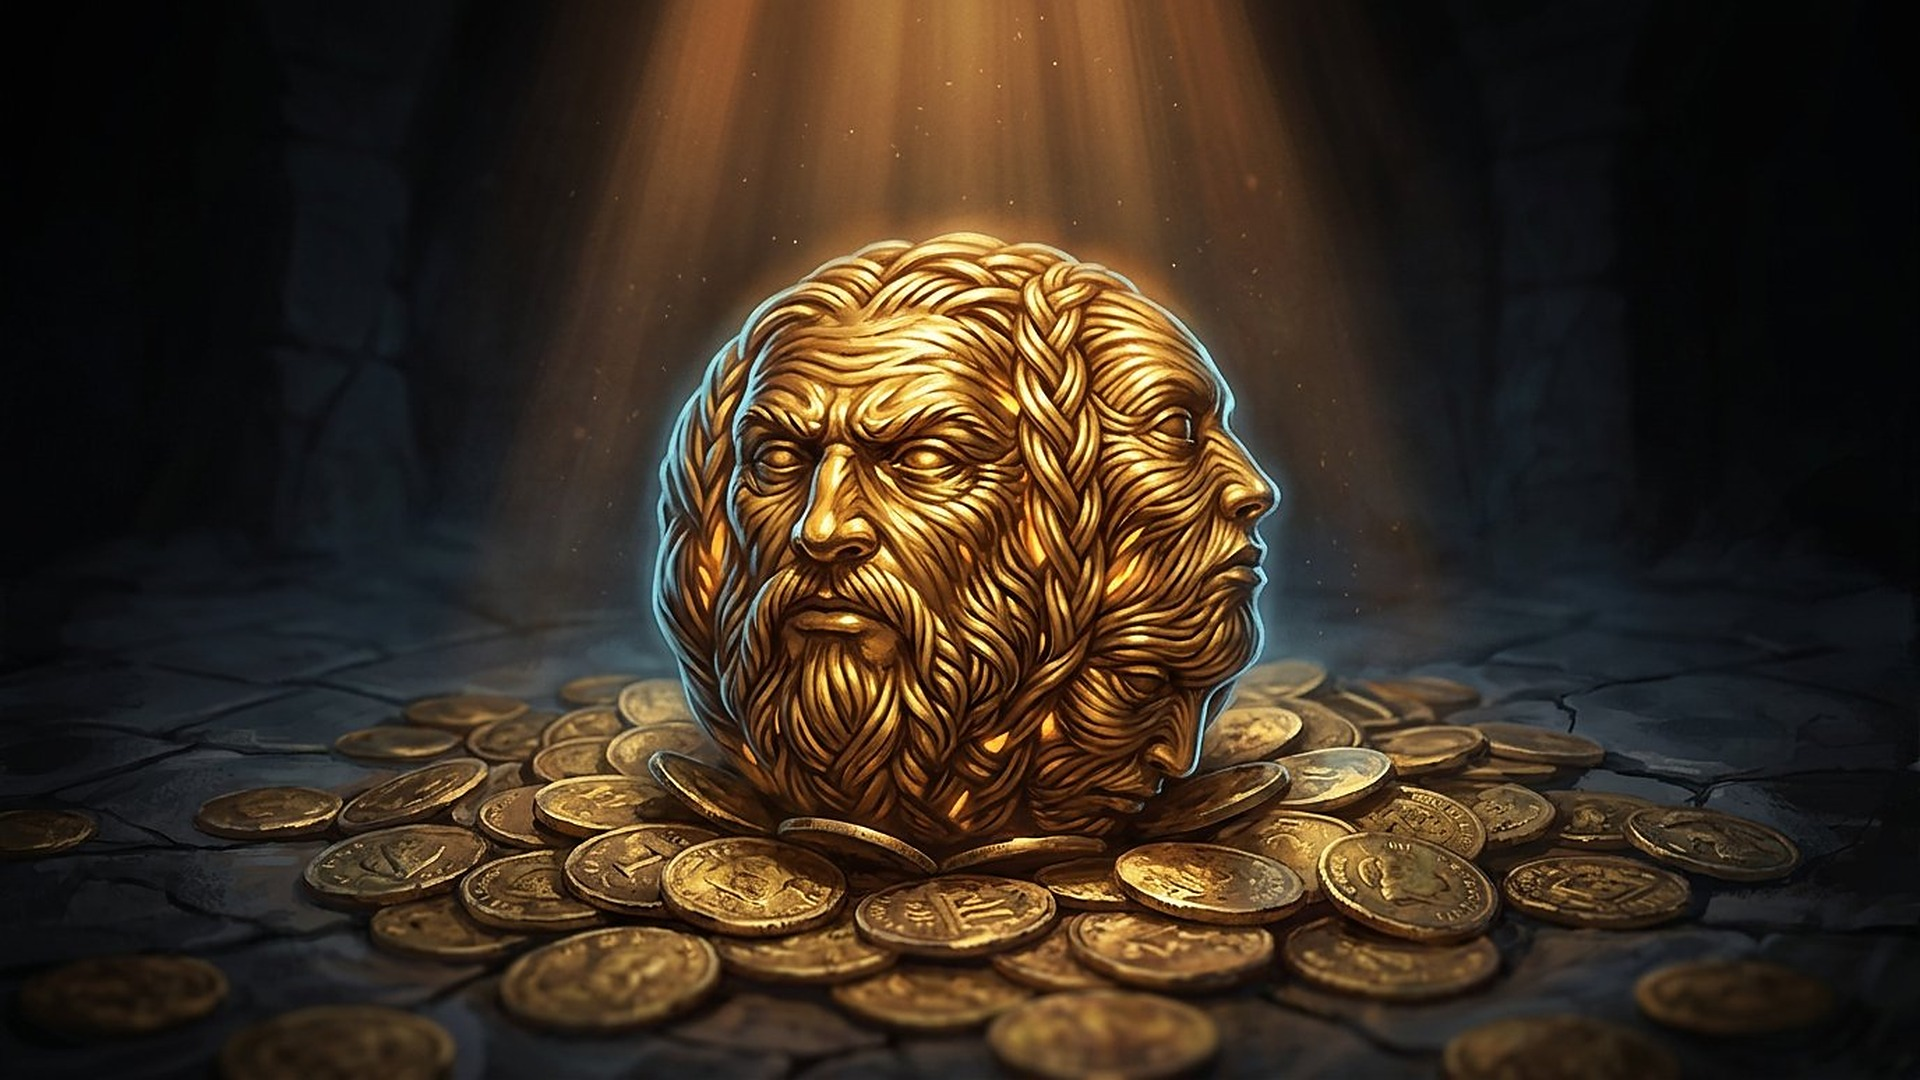
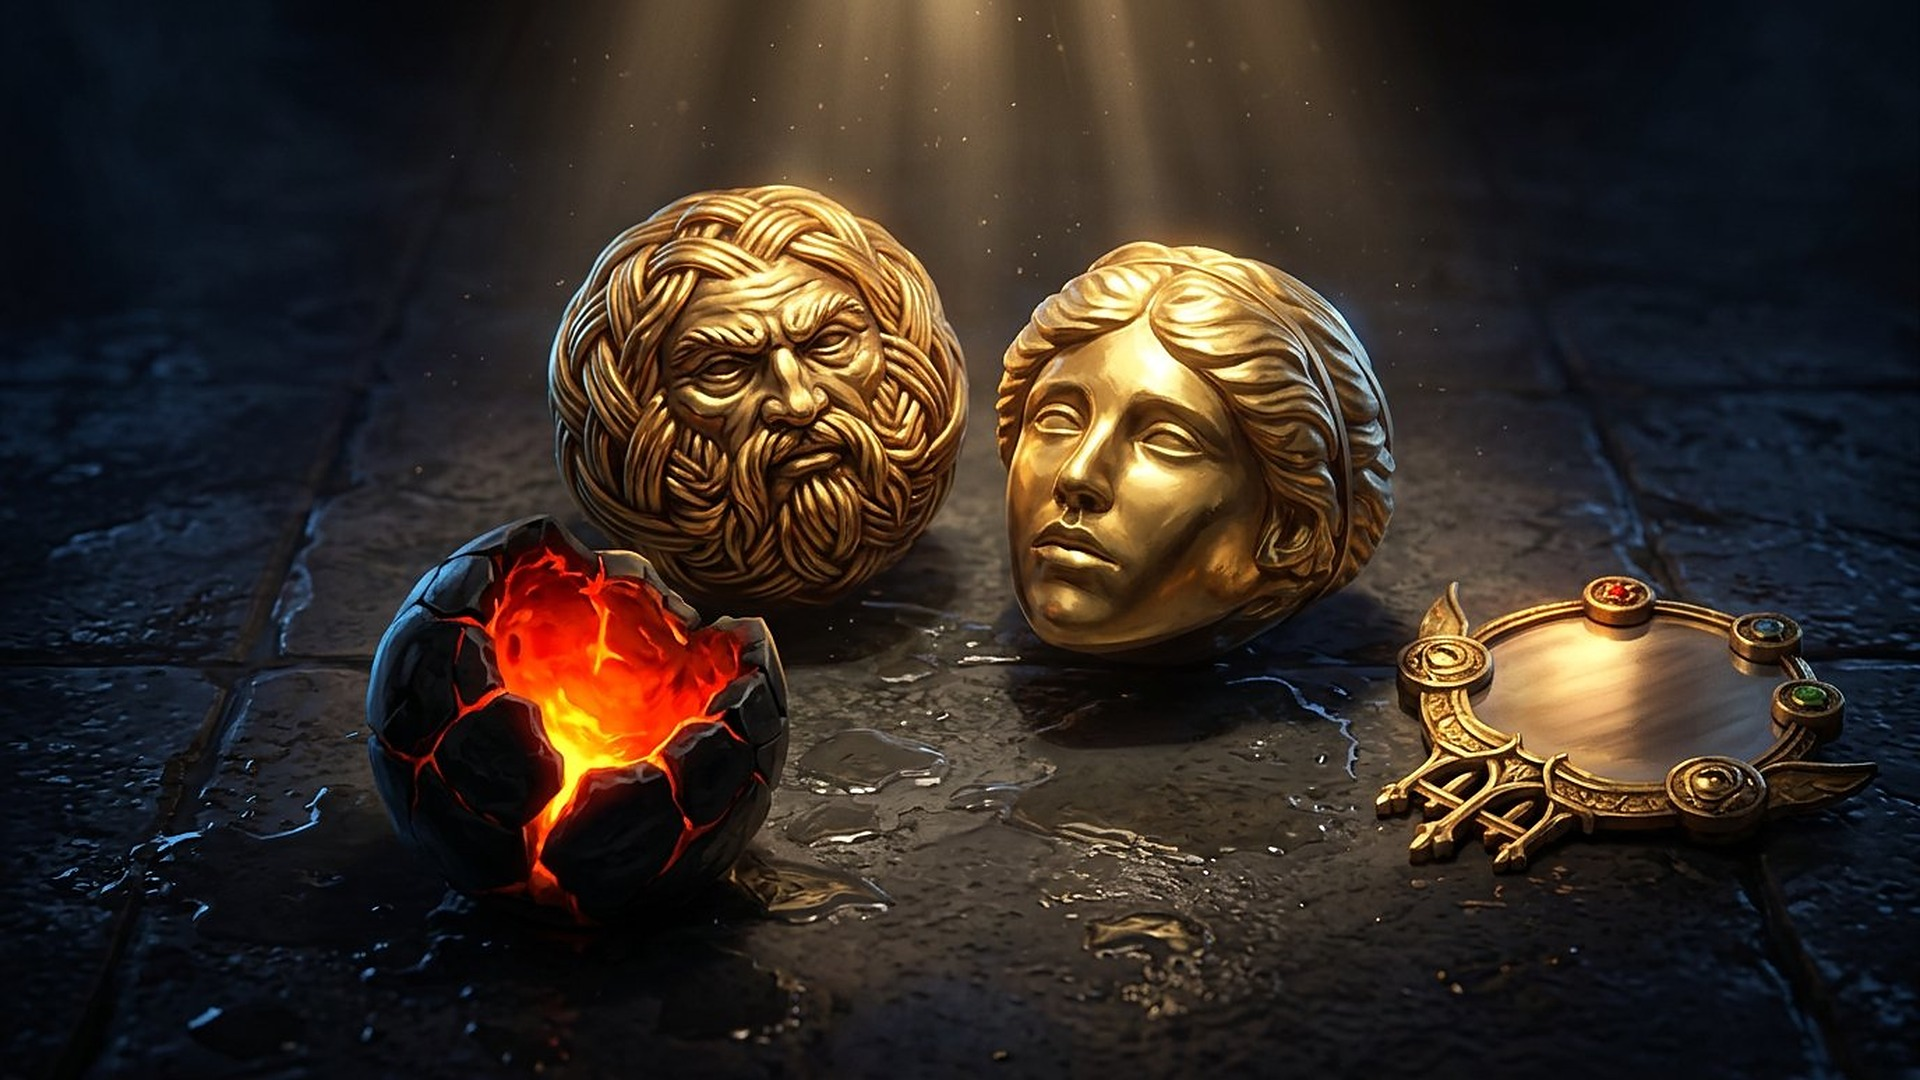
Plates: economy is real currency orbs, no coins
The economy plates now carry the game's own currency and nothing else: the Exalted
Orb (gold plaited bearded face), the Divine Orb (gold serene face), the Chaos Orb
(the black shell split open, molten red inside) and the Mirror of Kalandra. The
pile of generic gold coins is gone from all three directions.

- A: the four orbs laid out on bare stone, nothing else in frame.
- B: Exalted floating over the seal with Divine, Chaos and Mirror below it.
- C: the counting table — rows of orbs, brass scales, lantern and slit window.

Also finishes the last queued picture: flasks C, the expedition belt with the
life flask, two stone/crystal flasks, a silvery one and a half-empty one. All
twelve directions are now in, economy and flasks at three each.

diff --git a/preview/designs/plates.html b/preview/designs/plates.html
@@ -116,7 +116,9 @@
     fiery orange-red eye — <em>not</em> the ice-blue one I used before; I had the jewel's colour wrong.
     Rare Items: the gold band with a <b>blue sapphire and an amber topaz</b> side by side, the black
     onyx teardrop amulet on its chain, and PoE1's rare leather-and-steel gloves. Economy: the <b>Exalted
-    Orb</b> — plaited-gold bearded face with a second profile merging round the side. Flasks: the
+    Orb</b> — plaited-gold bearded face with a second profile merging round the side, with the <b>Divine
+    Orb</b>, the <b>Chaos Orb</b> and the <b>Mirror of Kalandra</b> — and <em>no coins anywhere</em>, only
+    real game currency. Flasks: the
     <b>Divine Life Flask</b> (tall ruby bottle, gold cap and corner plates), the <b>Granite Flask</b>
     (stone in green glass) and the <b>Diamond Flask</b> (crystal in green glass).
   </div>
@@ -131,8 +133,8 @@
   <div class="bar-in" role="tablist">
     <button class="tab" role="tab" data-set="watchers" aria-selected="true">Watcher's Eye<span class="n">3</span></button>
     <button class="tab" role="tab" data-set="rare" aria-selected="false">Rare Items<span class="n">3</span></button>
-    <button class="tab" role="tab" data-set="economy" aria-selected="false">Economy<span class="n">2</span></button>
-    <button class="tab" role="tab" data-set="flasks" aria-selected="false">Flasks<span class="n">2</span></button>
+    <button class="tab" role="tab" data-set="economy" aria-selected="false">Economy<span class="n">3</span></button>
+    <button class="tab" role="tab" data-set="flasks" aria-selected="false">Flasks<span class="n">3</span></button>
   </div>
 </div>
 
@@ -235,35 +237,43 @@
       <article class="card">
         <a class="shot" href="../../assets/plates/v3/economy-a.jpg" target="_blank" rel="noopener">
           <span class="badge"><b>A</b> in a place</span>
-          <img src="../../assets/plates/v3/economy-a.jpg" alt="Exalted Orb among coins in a vault" loading="lazy">
+          <img src="../../assets/plates/v3/economy-a.jpg" alt="Four Path of Exile 1 currency orbs on stone" loading="lazy">
           <span class="zoom">1920 × 1080 ↗</span>
         </a>
         <div class="meta">
-          <h2>The orb and the coins</h2>
-          <p>The Exalted Orb exactly as GGG drew it — plaited gold, bearded face, second profile merging
-          round the side — sitting in a drift of gold coins under one shaft of light.</p>
-          <div class="refs"><span>Exalted Orb icon</span><span>Exalted Orb art 2000 px</span><span>graveyard painting</span></div>
+          <h2>Four orbs, bare stone</h2>
+          <p>The four real orbs laid out side by side: Exalted with its bearded gold face, Divine with a
+          serene one, Chaos split open and molten, the Mirror of Kalandra flat on its back. Nothing else
+          in the frame — no coins.</p>
+          <div class="refs"><span>Exalted Orb art 2000 px</span><span>Divine Orb render</span><span>Mirror of Kalandra</span><span>graveyard painting</span></div>
         </div>
       </article>
 
       <article class="card">
         <a class="shot" href="../../assets/plates/v3/economy-b.jpg" target="_blank" rel="noopener">
           <span class="badge"><b>B</b> centred poster</span>
-          <img src="../../assets/plates/v3/economy-b.jpg" alt="Exalted Orb floating above a plinth" loading="lazy">
+          <img src="../../assets/plates/v3/economy-b.jpg" alt="Exalted Orb floating above a plinth with three smaller orbs" loading="lazy">
           <span class="zoom">1920 × 1080 ↗</span>
         </a>
         <div class="meta">
           <h2>The face</h2>
-          <p>The same orb floating over a carved seal, gold dust rising. The strongest single subject of
-          the ten — it reads as currency at thumbnail size.</p>
-          <div class="refs"><span>Exalted Orb art 2000 px</span><span>Exalted Orb icon</span><span>grove painting</span></div>
+          <p>The Exalted Orb floating over a carved seal, with a Divine, a Chaos and a Mirror below it.
+          The strongest single subject of the twelve — it reads as currency at thumbnail size.</p>
+          <div class="refs"><span>Exalted Orb art 2000 px</span><span>Divine Orb render</span><span>Mirror of Kalandra</span><span>grove painting</span></div>
         </div>
       </article>
 
-      <article class="pend">
-        <div>
-          <b>C — in its world</b>
-          <small>Queued: the vault counting table.<br>Generating next turn (image cap).</small>
+      <article class="card">
+        <a class="shot" href="../../assets/plates/v3/economy-c.jpg" target="_blank" rel="noopener">
+          <span class="badge"><b>C</b> in its world</span>
+          <img src="../../assets/plates/v3/economy-c.jpg" alt="Vault counting table with rows of currency orbs" loading="lazy">
+          <span class="zoom">1920 × 1080 ↗</span>
+        </a>
+        <div class="meta">
+          <h2>The counting table</h2>
+          <p>Rows of orbs on a vault table — Exalted, Divine, clusters of Chaos, one Mirror — with brass
+          scales behind, a lantern left and cold light from a slit window. The richest of the three.</p>
+          <div class="refs"><span>Exalted Orb art 2000 px</span><span>Divine Orb render</span><span>Mirror of Kalandra</span><span>graveyard painting</span></div>
         </div>
       </article>
     </div>
@@ -299,10 +309,17 @@
         </div>
       </article>
 
-      <article class="pend">
-        <div>
-          <b>C — in its world</b>
-          <small>Queued: the flask belt.<br>Generating next turn (image cap).</small>
+      <article class="card">
+        <a class="shot" href="../../assets/plates/v3/flasks-c.jpg" target="_blank" rel="noopener">
+          <span class="badge"><b>C</b> in its world</span>
+          <img src="../../assets/plates/v3/flasks-c.jpg" alt="Expedition belt hung with flasks" loading="lazy">
+          <span class="zoom">1920 × 1080 ↗</span>
+        </a>
+        <div class="meta">
+          <h2>The belt</h2>
+          <p>Stained leather over a crate, hung with the life flask, two stone-and-crystal green flasks,
+          a silvery one and a half-empty one. The only one of the three that reads as gear you carry.</p>
+          <div class="refs"><span>Divine Life Flask icon</span><span>Granite Flask icon</span><span>Diamond Flask icon</span><span>graveyard painting</span></div>
         </div>
       </article>
     </div>
